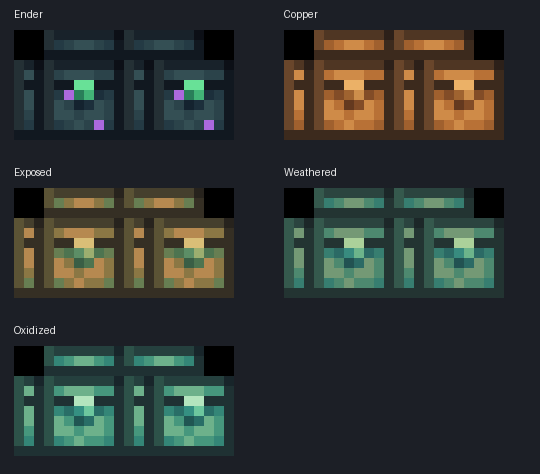
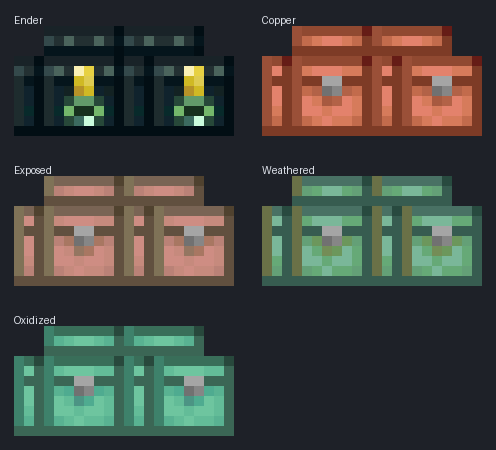
Redraw Ender saddlebag and match copper saddlebags to vanilla chest colours
The Ender bag is now drawn after the vanilla Ender chest (dark teal body, studded
lid, golden clasp, green eye). The four copper bags use colours sampled from the
vanilla 1.21.11 copper chests, with the plain grey latch kept. Rows 0-2 of every
face remain the lid so it can be animated.

diff --git a/scripts/generate_sack_textures.py b/scripts/generate_sack_textures.py
@@ -1,65 +1,109 @@
-"""Generate the compact 22x11 saddlebag palettes used for special pet chests.
+"""Generate the compact 22x11 saddlebag textures used for special pet chests.
 
-Requires Pillow. The source silhouette is the project's own chest texture;
-the output keeps its UV layout and only changes the palette/details.
+Requires Pillow. Run from anywhere:
+
+    python scripts/generate_sack_textures.py            # textures only
+    python scripts/generate_sack_textures.py --preview  # also refresh docs/special-saddlebags-preview.png
+
+The texture is the UV layout of an 8x8x3 box (top/bottom strips, two thin sides, two
+identical 8x8 faces). Rows 0-2 of every face are the lid, rows 3-7 the body, so the
+renderer can swing the lid open. Copper variants recolour the project's own chest
+silhouette with colours sampled from the vanilla 1.21.11 copper chests; the Ender
+saddlebag is drawn from scratch after the vanilla Ender chest (dark teal body, studded
+lid, golden clasp and green eye).
 """
+import sys
 from pathlib import Path
-from PIL import Image
+from PIL import Image, ImageDraw
 
 ROOT = Path(__file__).resolve().parents[1]
 SOURCE = ROOT / "src/main/resources/assets/chestedcompanions/textures/chest/chest.png"
[1 lines of base64/hex data omitted]
+PREVIEW = ROOT / "docs/special-saddlebags-preview.png"
 
-SOURCE_COLORS = [
-    (31, 28, 23), (42, 37, 29), (54, 48, 38), (69, 60, 47),
-    (171, 121, 45), (167, 110, 31), (143, 105, 29), (128, 92, 34), (114, 84, 26),
-    (165, 165, 165), (113, 113, 113), (134, 134, 134),
-]
+# Colours of the wooden chest silhouette -> shading roles shared by every copper palette.
+ROLE_OF = {
+    (31, 28, 23): "C", (42, 37, 29): "G", (54, 48, 38): "B", (69, 60, 47): "A",
+    (114, 84, 26): "L", (128, 92, 34): "I", (143, 105, 29): "D", (167, 110, 31): "E", (171, 121, 45): "F",
+    (165, 165, 165): "H", (113, 113, 113): "J", (134, 134, 134): "K",
+}
+# Vanilla copper chests keep the plain grey latch of the wooden chest.
+GREY_LATCH = {"H": (165, 165, 165), "J": (113, 113, 113), "K": (134, 134, 134)}
 
-PALETTES = {
-    "ender": [
-        (12, 15, 22), (17, 24, 32), (24, 34, 42), (36, 48, 53),
-        (52, 79, 84), (43, 67, 74), (36, 58, 68), (28, 47, 59), (20, 35, 47),
-        (104, 225, 151), (41, 126, 89), (66, 180, 119),
-    ],
-    "copper": [
-        (44, 32, 25), (60, 42, 29), (79, 54, 35), (105, 70, 43),
-        (207, 139, 72), (184, 113, 54), (160, 96, 46), (130, 76, 39), (100, 57, 31),
-        (235, 177, 103), (159, 99, 48), (205, 142, 75),
-    ],
-    "copper_exposed": [
-        (39, 35, 29), (53, 47, 36), (69, 63, 45), (91, 83, 53),
-        (182, 137, 80), (139, 119, 68), (103, 126, 82), (77, 116, 80), (58, 94, 69),
-        (217, 190, 119), (92, 142, 102), (156, 174, 111),
-    ],
-    "copper_weathered": [
-        (28, 39, 40), (35, 52, 50), (43, 68, 63), (53, 89, 77),
-        (116, 153, 117), (77, 137, 111), (55, 126, 112), (43, 106, 101), (34, 82, 82),
-        (171, 209, 154), (56, 139, 127), (108, 180, 139),
-    ],
-    "copper_oxidized": [
-        (24, 37, 42), (31, 49, 51), (37, 64, 62), (45, 82, 73),
-        (109, 177, 139), (70, 151, 125), (52, 134, 119), (41, 110, 103), (32, 86, 83),
-        (180, 229, 190), (53, 144, 130), (109, 199, 158),
-    ],
+# Shades from darkest (C) to lightest (F), sampled from entity/chest/copper*.png of Minecraft 1.21.11.
+COPPER = {
+    "copper": dict(C="651c16", G="7d3b26", B="904931", A="9a5038", L="a75a40", I="b26247", D="c26b4c", E="d67b5b", F="e3826c"),
+    "copper_exposed": dict(C="50422f", G="61503f", B="796454", A="7f7257", L="947661", I="a87762", D="ba8277", E="c68a7d", F="ce8d83"),
+    "copper_weathered": dict(C="284a3f", G="375c50", B="497164", A="6a7147", L="748d57", I="6c975c", D="64a077", E="66a977", F="7ab799"),
+    "copper_oxidized": dict(C="28483c", G="3b6655", B="396e59", A="3e816b", L="4c9484", I="4fab90", D="59b292", E="63bc98", F="6ec59f"),
 }
 
-OUTPUT.mkdir(parents=True, exist_ok=True)
-source = Image.open(SOURCE).convert("RGBA")
-for name, palette in PALETTES.items():
-    colors = dict(zip(SOURCE_COLORS, palette, strict=True))
-    result = source.copy()
+ENDER_COLORS = dict(
+    a="020e14", b="05151c", c="082a2b", d="10232d", e="132223", f="192328", g="1e2c2e", h="233032",
+    j="34494b", l="4b645c", n="274839", o="3c6b60", p="629b6a", q="74b76b", r="17311e", s="cbfcdd",
+    t="b69228", u="d0b924", v="e7d143", w="faf1b5", x="decb51",
+)
+# 8x8 face (front and back): grey studded lid, golden clasp straddling the seam, green eye.
+ENDER_FACE = ["fffffffa", "jlhwvhlb", "gbbuxbba", "gdetudea", "gdnppnda", "gcqrrqca", "gdnosnda", "aaaaaaaa"]
+ENDER_SIDE = ["ffa", "jhb", "gba", "gda", "gda", "gca", "gda", "aaa"]
+ENDER_TOP = ["fffffffa", "jhlhhlhb", "bbbbbbba"]
+
+LABELS = {"ender": "Ender", "copper": "Copper", "copper_exposed": "Exposed",
+          "copper_weathered": "Weathered", "copper_oxidized": "Oxidized"}
+
+
+def rgb(value):
+    return tuple(int(value[i:i + 2], 16) for i in (0, 2, 4))
+
+
+def build_copper(roles):
+    result = Image.open(SOURCE).convert("RGBA")
     pixels = result.load()
+    colors = {role: rgb(value) for role, value in roles.items()}
+    colors.update(GREY_LATCH)
     for y in range(result.height):
         for x in range(result.width):
             r, g, b, alpha = pixels[x, y]
-            if alpha and (r, g, b) in colors:
-                pixels[x, y] = (*colors[(r, g, b)], alpha)
+            if alpha and (r, g, b) in ROLE_OF:
+                pixels[x, y] = (*colors[ROLE_OF[(r, g, b)]], alpha)
+    return result
 
-    if name == "ender":
-        # A few restrained purple glints make the Ender saddlebag read clearly
-        # at in-game scale without copying the vanilla block's oversized atlas.
-        for x, y in ((5, 6), (8, 9), (16, 6), (19, 9)):
-            pixels[x, y] = (171, 105, 221, 255)
 
-    result.save(OUTPUT / f"{name}.png", optimize=False)
+def build_ender():
+    result = Image.new("RGBA", (22, 11), (0, 0, 0, 0))
+    pixels = result.load()
+    colors = {key: rgb(value) for key, value in ENDER_COLORS.items()}
+    for offset_x, offset_y, rows in ((3, 0, ENDER_TOP), (11, 0, ENDER_TOP), (0, 3, ENDER_SIDE),
+                                     (3, 3, ENDER_FACE), (11, 3, ENDER_SIDE), (14, 3, ENDER_FACE)):
+        for dy, row in enumerate(rows):
+            for dx, key in enumerate(row):
+                pixels[offset_x + dx, offset_y + dy] = (*colors[key], 255)
+    return result
+
+
+def write_preview(textures):
+    scale, columns, margin = 10, 2, 14
+    cell_w, cell_h = 22 * scale + margin * 2, 11 * scale + margin * 2 + 12
+    rows = (len(textures) + columns - 1) // columns
+    sheet = Image.new("RGB", (cell_w * columns, cell_h * rows), (30, 33, 40))
+    draw = ImageDraw.Draw(sheet)
+    for index, (name, image) in enumerate(textures.items()):
+        x, y = index % columns * cell_w + margin, index // columns * cell_h + margin
+        draw.text((x, y), LABELS[name], fill=(224, 228, 236))
+        big = image.resize((22 * scale, 11 * scale), Image.NEAREST)
+        sheet.paste(big, (x, y + 12), big)
+    sheet.save(PREVIEW)
+
+
+def main():
+    OUTPUT.mkdir(parents=True, exist_ok=True)
+    textures = {"ender": build_ender()}
+    textures.update({name: build_copper(roles) for name, roles in COPPER.items()})
+    for name, image in textures.items():
+        image.save(OUTPUT / f"{name}.png", optimize=False)
+    if "--preview" in sys.argv[1:]:
+        write_preview(textures)
+
+
+if __name__ == "__main__":
+    main()
